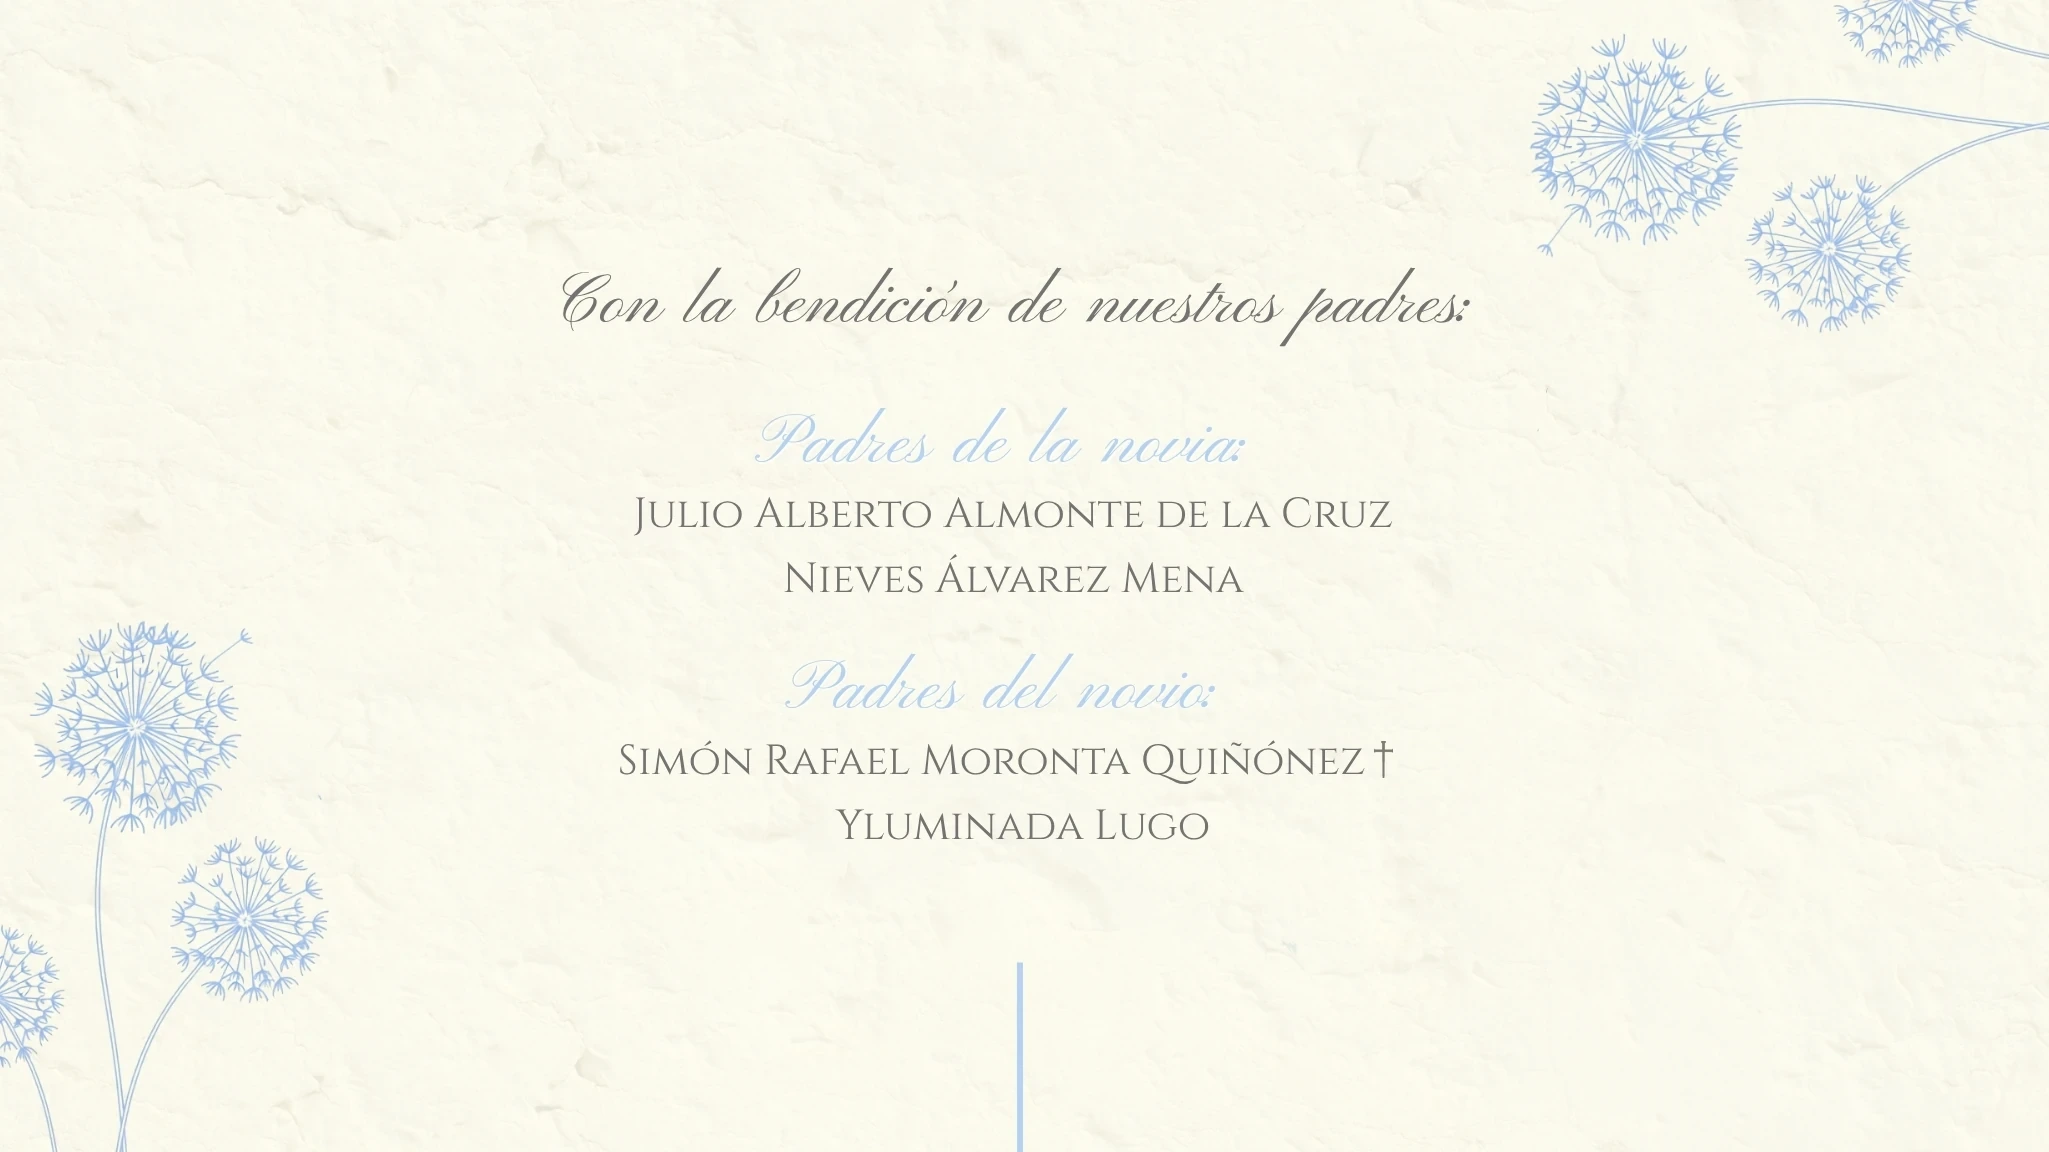
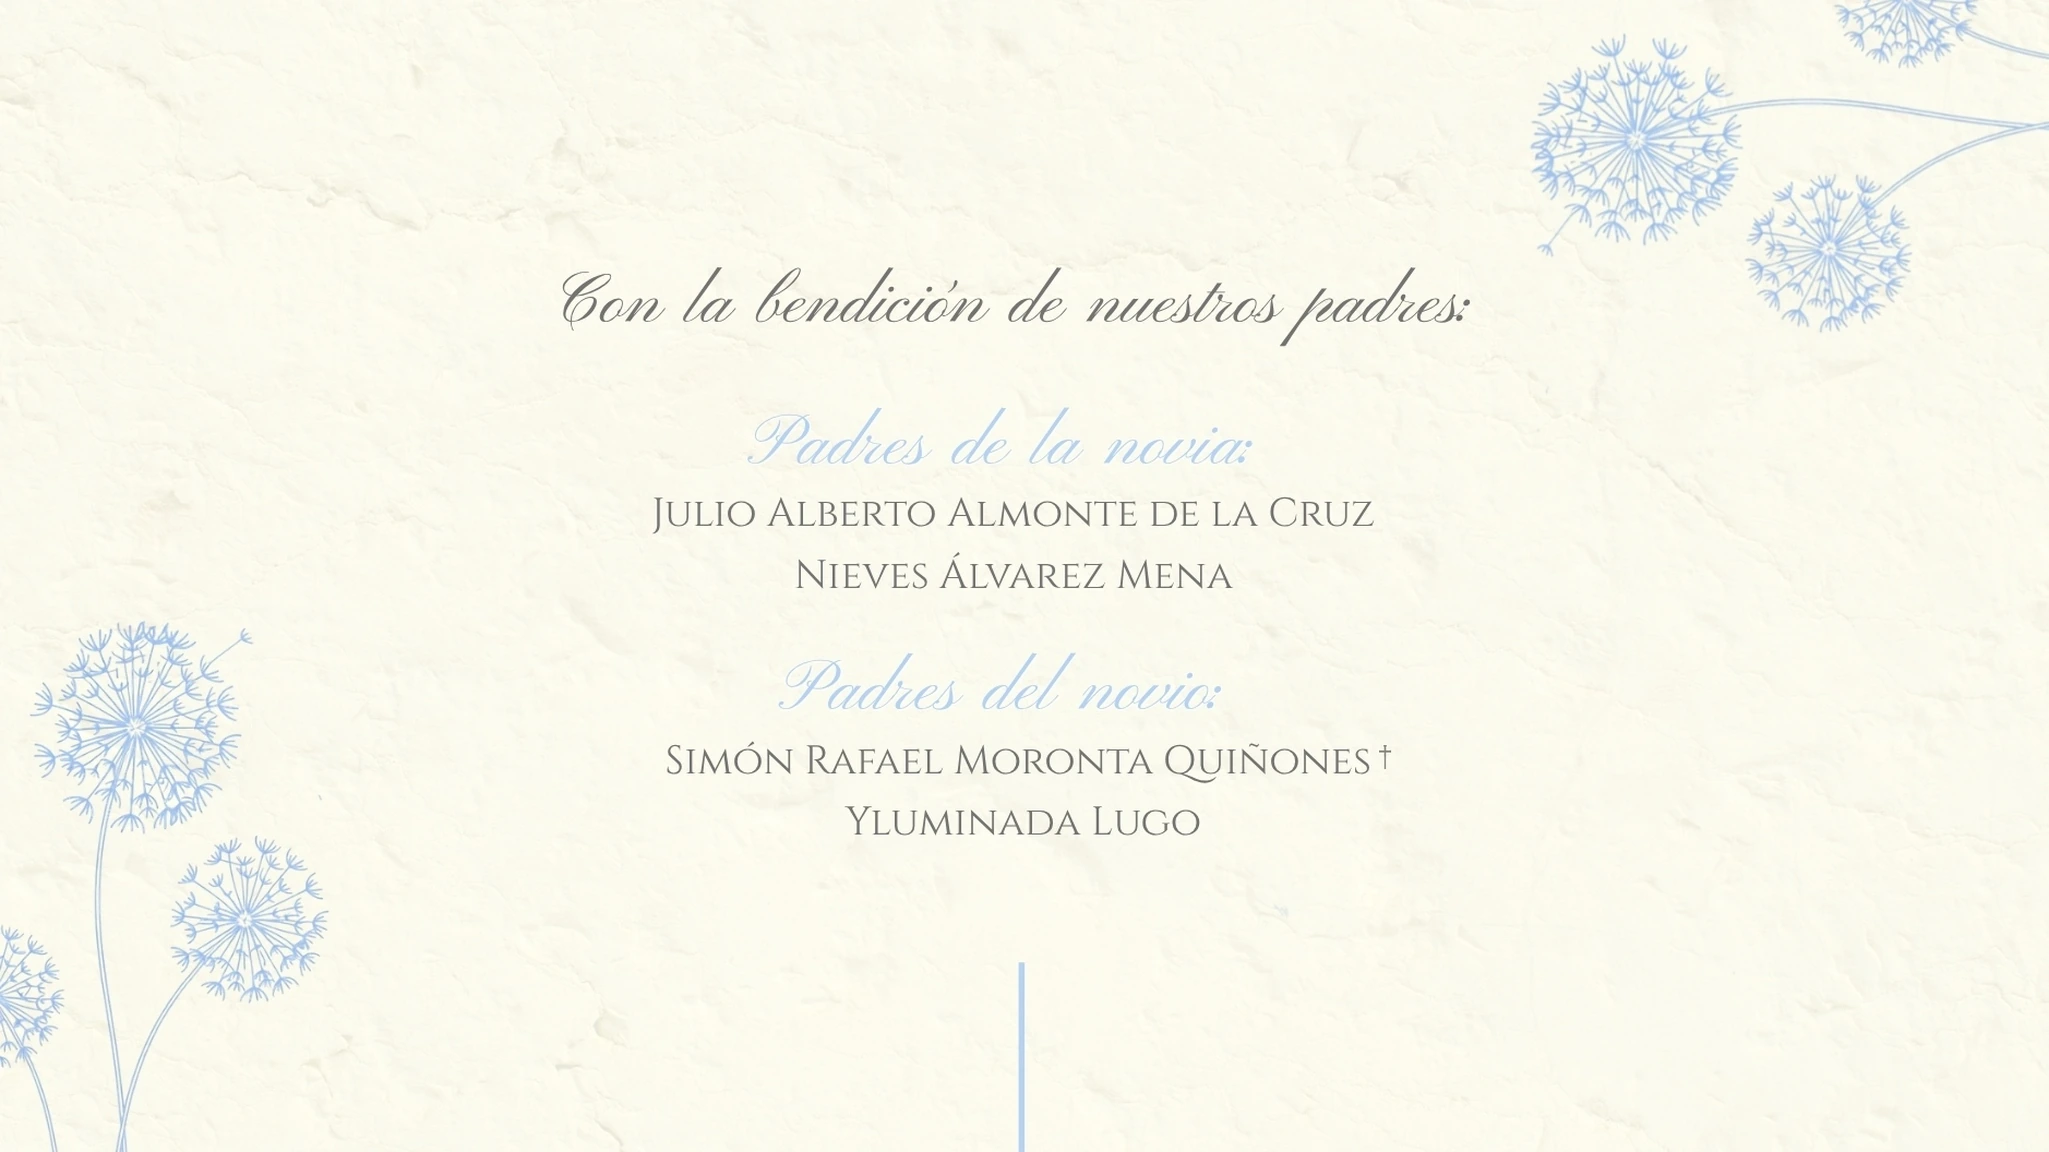
feat(padres): corrected names, dagger restored

diff --git a/inv/nieves-y-jesus/preview.html b/inv/nieves-y-jesus/preview.html
@@ -2768,7 +2768,8 @@ document.querySelectorAll('.reveal').forEach(el=>obs.observe(el))
   ];
 
   /* Mobile export's drawn dandelions sit in different spots than the
-     desktop crop (upper-right ~31-61%/0-14%, lower-left ~0-17%/43-63%).
+     desktop crop (upper-right ~52-100%/0-20%, lower-left ~0-34%/69-100%,
+     including a flower added at ~0-23%/69-83% that wasn't there before).
      Reposition just the points that would land on them; desktop's
      padresBase above is untouched. */
   var padresBaseMobile = [
@@ -2779,11 +2780,11 @@ document.querySelectorAll('.reveal').forEach(el=>obs.observe(el))
     {xp:42,yp:24,size:19,dur:14,tilt:25}, {xp:48,yp:24,size:23,dur:12,tilt:-15},
     {xp:8,yp:36,size:17,dur:19,tilt:50},  {xp:26,yp:22,size:38,dur:10,tilt:-25},
     {xp:54,yp:26,size:15,dur:21,tilt:35}, {xp:20,yp:34,size:21,dur:16,tilt:-5},
-    {xp:32,yp:28,size:25,dur:13,tilt:20}, {xp:4,yp:70,size:18,dur:18,tilt:-40},
-    {xp:44,yp:24,size:27,dur:11,tilt:10}, {xp:12,yp:72,size:16,dur:20,tilt:-30},
+    {xp:32,yp:28,size:25,dur:13,tilt:20}, {xp:6,yp:56,size:18,dur:18,tilt:-40},
+    {xp:44,yp:24,size:27,dur:11,tilt:10}, {xp:16,yp:60,size:16,dur:20,tilt:-30},
     {xp:38,yp:36,size:22,dur:15,tilt:45}, {xp:52,yp:30,size:19,dur:17,tilt:-20},
-    {xp:24,yp:74,size:24,dur:13,tilt:15}, {xp:2,yp:76,size:14,dur:22,tilt:-50},
-    {xp:18,yp:78,size:20,dur:16,tilt:30}, {xp:46,yp:38,size:17,dur:19,tilt:-10},
+    {xp:24,yp:60,size:24,dur:13,tilt:15}, {xp:4,yp:66,size:14,dur:22,tilt:-50},
+    {xp:22,yp:58,size:20,dur:16,tilt:30}, {xp:46,yp:38,size:17,dur:19,tilt:-10},
     {xp:30,yp:48,size:23,dur:14,tilt:25}, {xp:56,yp:44,size:15,dur:21,tilt:-35},
     {xp:8,yp:16,size:36,dur:10,tilt:0},   {xp:34,yp:44,size:18,dur:18,tilt:40},
     {xp:58,yp:20,size:21,dur:15,tilt:-15},{xp:16,yp:8,size:34,dur:11,tilt:20}
